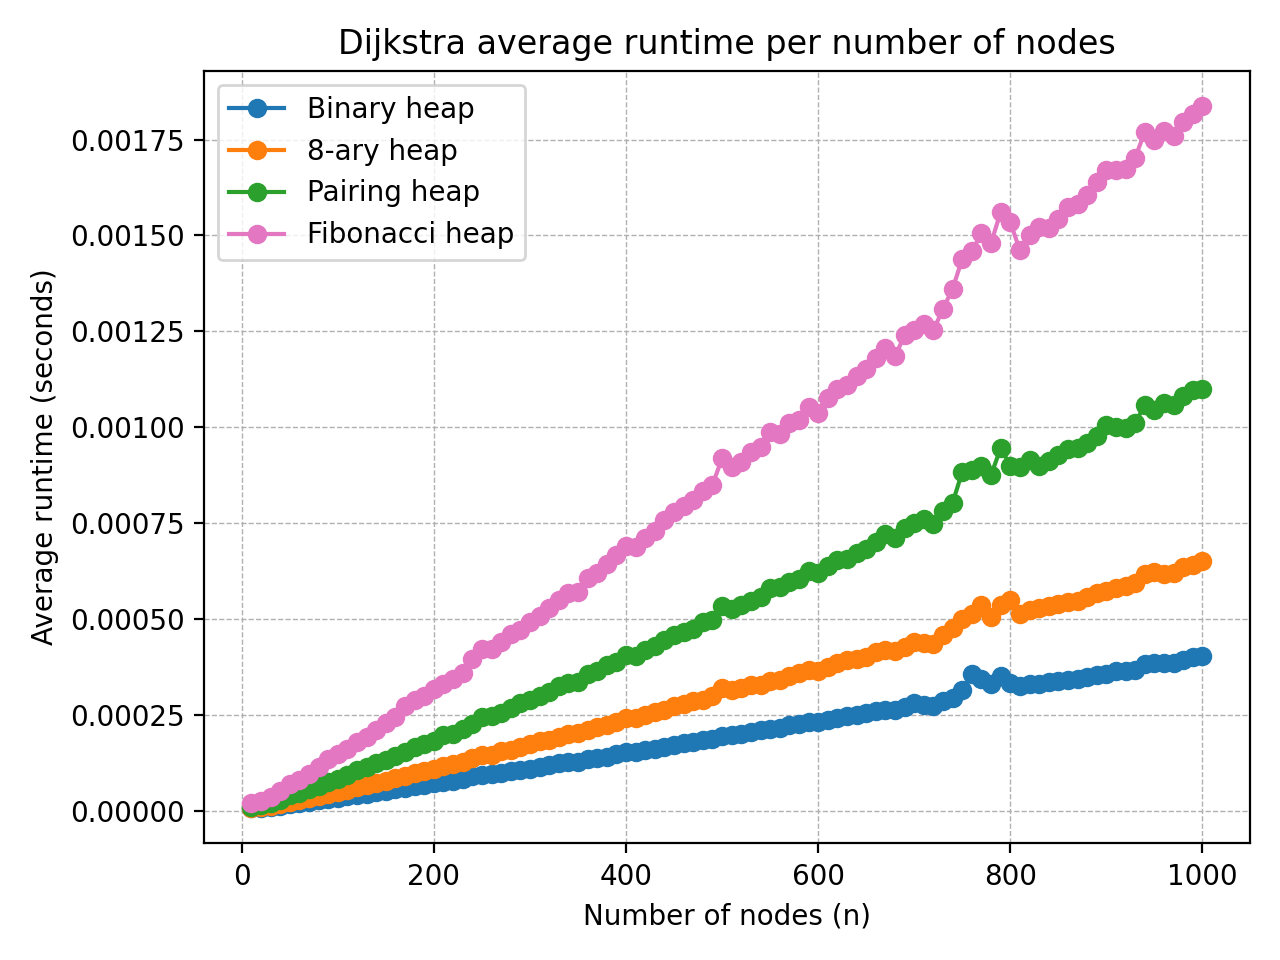
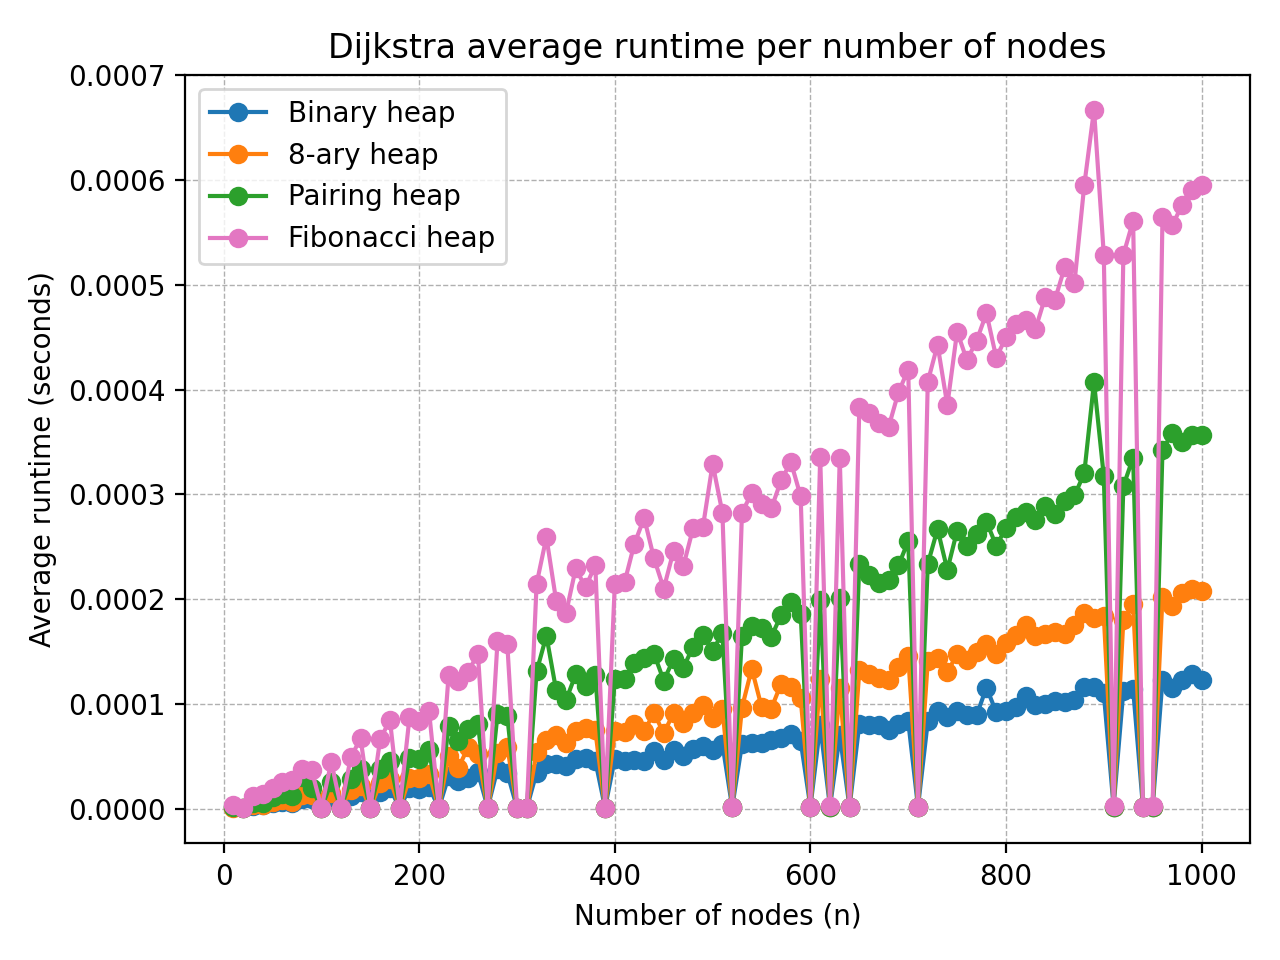
fixed the read of double edges

Changed region(s): [[0.0, 0.0312, 0.9688, 0.9688], [0.75, 0.875, 0.8125, 0.9375], [0.9062, 0.9062, 0.9688, 0.9375]]

diff --git a/main.cpp b/main.cpp
@@ -66,7 +66,7 @@ int main() {
             }
 
             adj[u].push_back({v, w});
-            adj[v].push_back({u, w});  // For undirected graph
+            //adj[v].push_back({u, w});  // For undirected graph
         }
 
         //Skip the comma separating graphs
@@ -99,6 +99,12 @@ int main() {
 
             //OUTPUT
             outFile << heapType << " Nodes: " << nodes << " Time: " << std::scientific << duration << "\n";
+
+            /*outFile << heapType << " ";
+            for (int d : dijkstra(nodes, adj, *pq)) {
+                outFile << d << " ";
+            }
+            outFile << "Time: " << std::scientific << duration << "\n";*/
 
             // GARBAGE COLLECT EACH PRIORITY QUEUE
             delete pq;

diff --git a/Python/generate_scaling_sparse.py b/Python/generate_scaling_sparse.py
@@ -11,8 +11,8 @@ SEED = 42
 W_MIN = 1
 W_MAX = 100
 
-EDGE_FACTOR = 3      # sparse: m = 3n
-GRAPHS_PER_SIZE = 100
+EDGE_FACTOR = 2      # sparse: m = 3n
+GRAPHS_PER_SIZE = 1
 
 random.seed(SEED)
 
